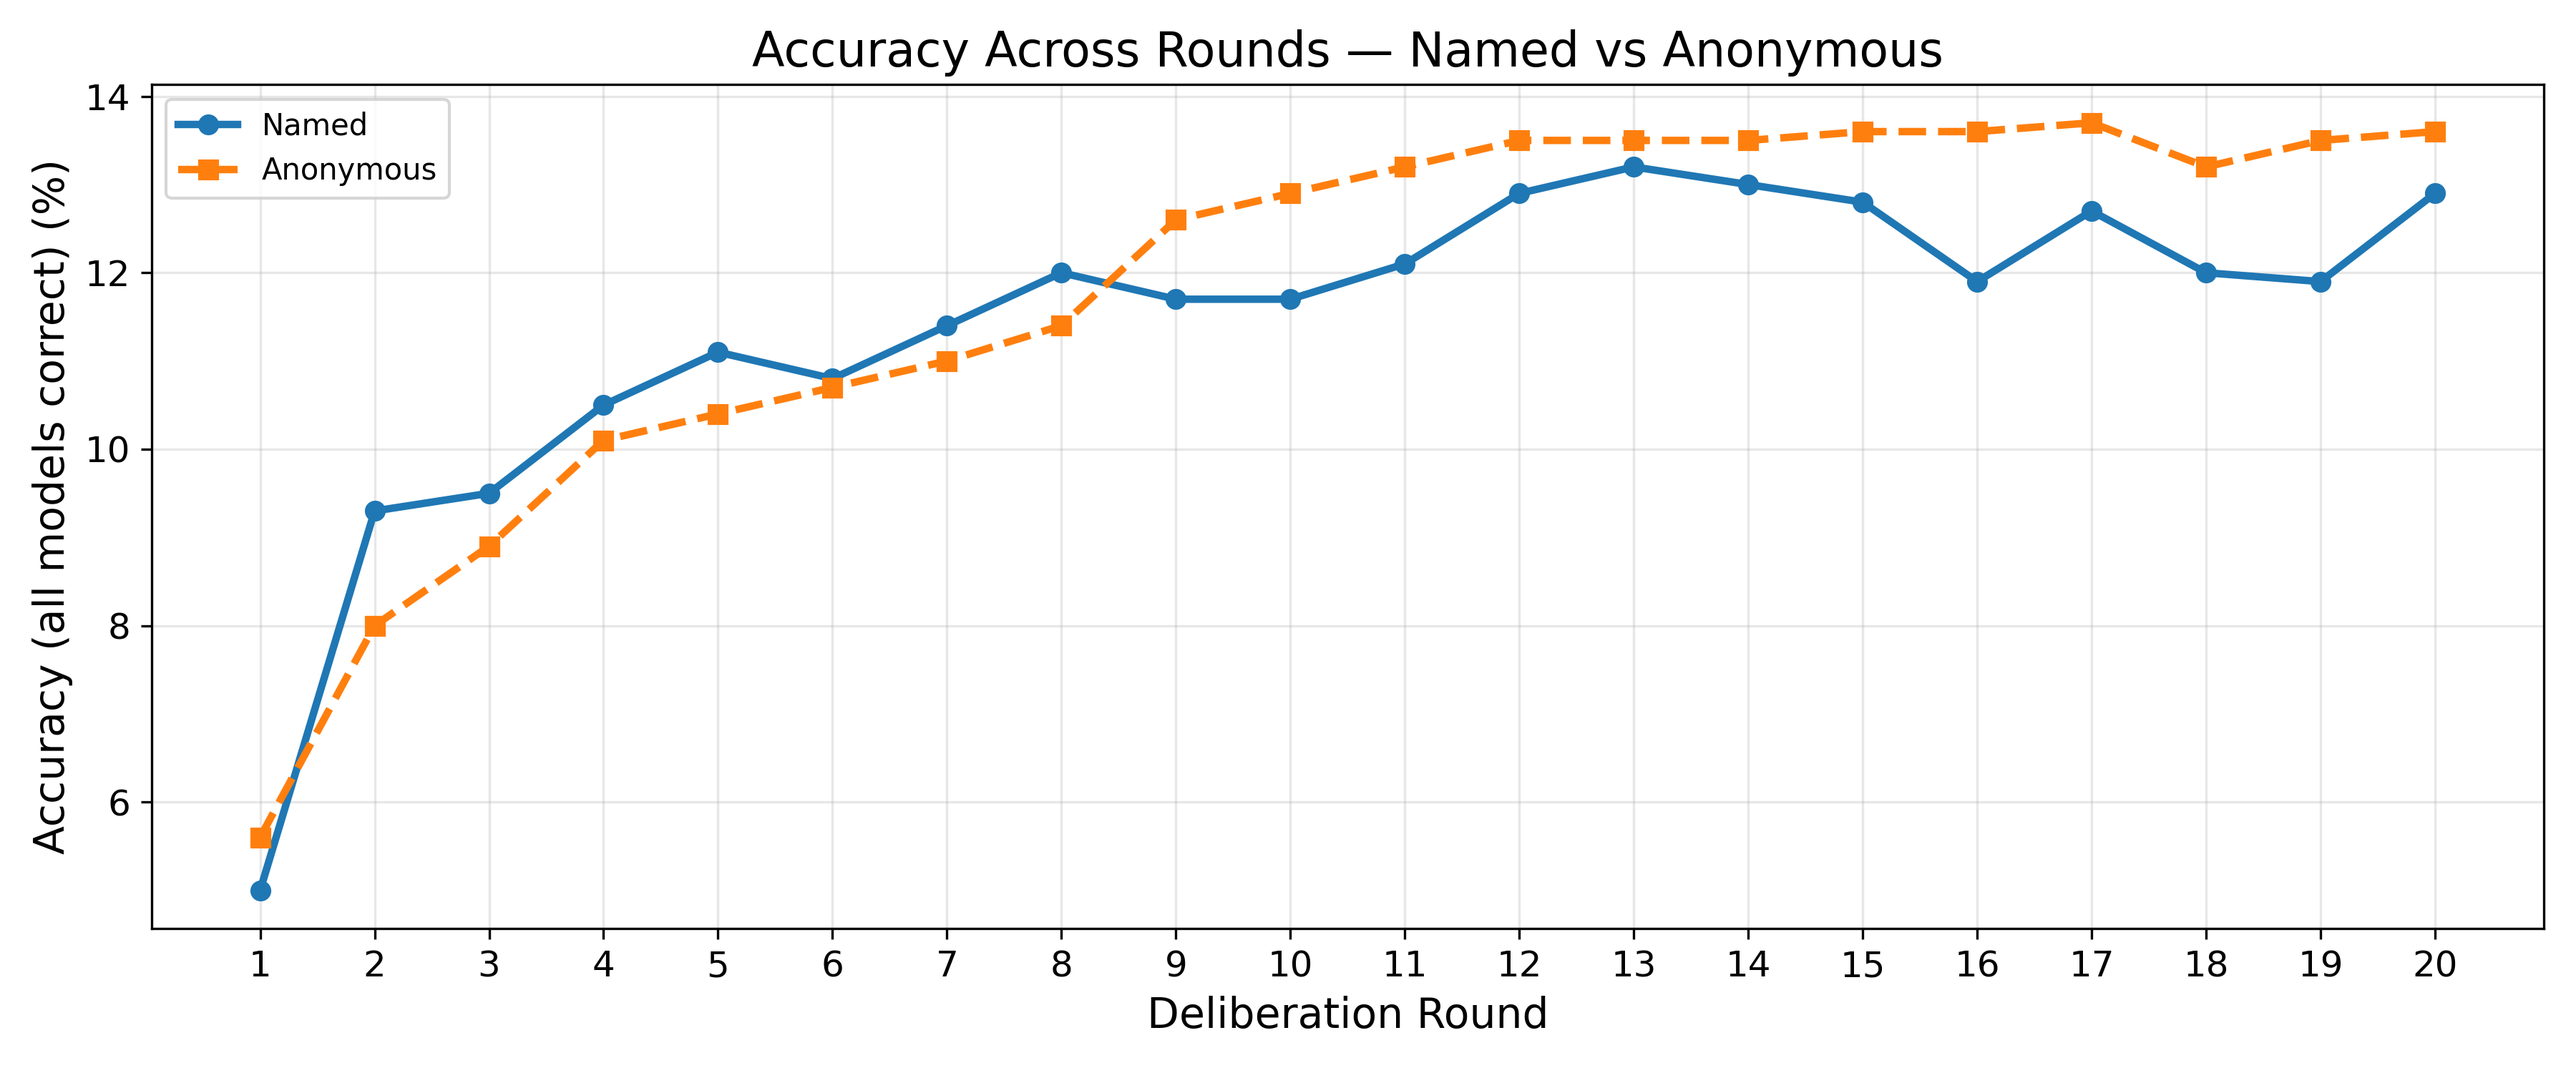
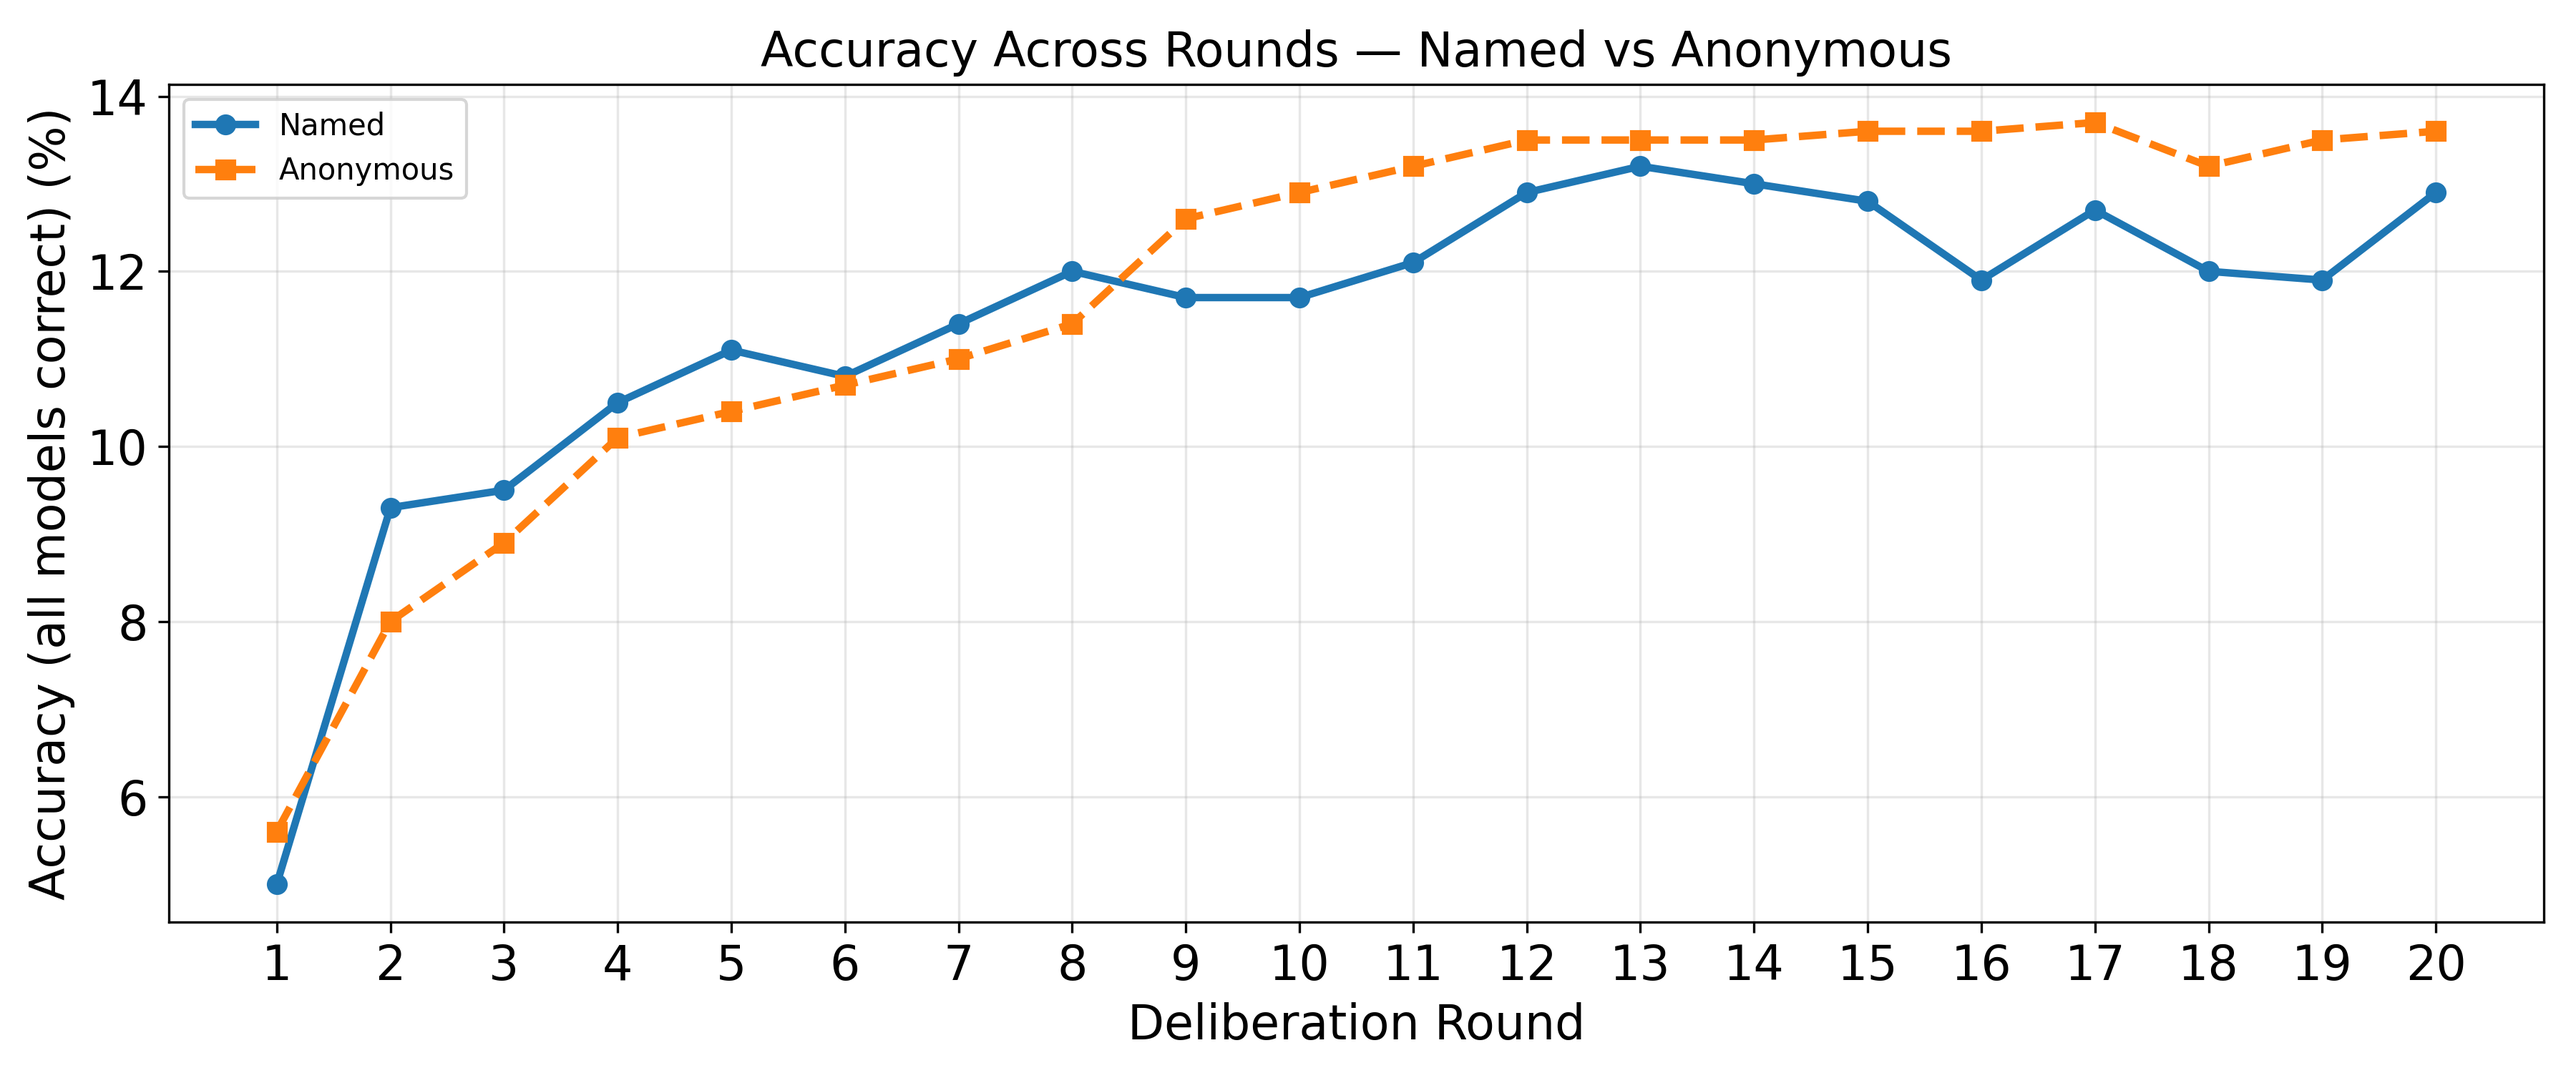
Made stuff bigger

diff --git a/Analysis_files/HLE_accuracy_plot.py b/Analysis_files/HLE_accuracy_plot.py
@@ -44,10 +44,10 @@ def plot_rounds_accuracy(output_dir, out_path):
 
     plt.figure(figsize=(12, 5))
     plt.plot(rounds, values, marker="o", linewidth=2.5, markersize=6)
-    plt.xticks(rounds, fontsize=12)
-    plt.yticks(fontsize=12)
-    plt.xlabel("Deliberation Round", fontsize=14)
-    plt.ylabel("Accuracy (all models correct) (%)", fontsize=14)
+    plt.xticks(rounds, fontsize=16)
+    plt.yticks(fontsize=16)
+    plt.xlabel("Deliberation Round", fontsize=16)
+    plt.ylabel("Accuracy (all models correct) (%)", fontsize=16)
     plt.title("Accuracy Across Rounds", fontsize=16)
     plt.grid(True, alpha=0.3)
     plt.tight_layout()
@@ -73,7 +73,8 @@ def plot_deference_direction(output_dir, out_path):
     plt.figure(figsize=(12, 5))
     plt.bar(x - width / 2, small_to_large, width, label="Small → Large")
     plt.bar(x + width / 2, large_to_small, width, label="Large → Small")
-    plt.xticks(x, labels, rotation=30, ha="right")
+    plt.xticks(x, labels, rotation=30, ha="right", fontsize=16)
+    plt.yticks(fontsize=16)
     plt.ylabel("Percentage of Disagreements (%)")
     plt.title("Direction of Deference")
     plt.legend()
@@ -104,7 +105,8 @@ def plot_deference_accuracy_outcomes(output_dir, out_path):
     plt.bar(x - 0.5 * width, s2l_c2w, width, label="s2l: correct → wrong")
     plt.bar(x + 0.5 * width, l2s_w2c, width, label="l2s: wrong → correct")
     plt.bar(x + 1.5 * width, l2s_c2w, width, label="l2s: correct → wrong")
-    plt.xticks(x, labels, rotation=30, ha="right")
+    plt.xticks(x, labels, rotation=30, ha="right", fontsize=16)
+    plt.yticks(fontsize=16)
     plt.ylabel("Percentage of Deferences in Branch (%)")
     plt.title("Deference Accuracy Outcomes")
     plt.legend()
@@ -165,10 +167,10 @@ def plot_combined_variants(parent_output_dir, out_path):
     plt.figure(figsize=(12, 5))
     plt.plot(rounds_n, values_n, marker="o", linewidth=2.5, markersize=6, label="Named")
     plt.plot(rounds_a, values_a, marker="s", linewidth=2.5, markersize=6, linestyle="--", label="Anonymous")
-    plt.xticks(rounds_n, fontsize=12)
-    plt.yticks(fontsize=12)
-    plt.xlabel("Deliberation Round", fontsize=14)
-    plt.ylabel("Accuracy (all models correct) (%)", fontsize=14)
+    plt.xticks(rounds_n, fontsize=16)
+    plt.yticks(fontsize=16)
+    plt.xlabel("Deliberation Round", fontsize=16)
+    plt.ylabel("Accuracy (all models correct) (%)", fontsize=16)
     plt.title("Accuracy Across Rounds — Named vs Anonymous", fontsize=16)
     plt.legend()
     plt.grid(True, alpha=0.3)
@@ -190,10 +192,10 @@ def plot_combined_rotated_variants(parent_output_dir, out_path):
     plt.figure(figsize=(12, 5))
     plt.plot(rounds_n, values_n, marker="o", linewidth=2.5, markersize=6, label="Named Rotated")
     plt.plot(rounds_a, values_a, marker="s", linewidth=2.5, markersize=6, linestyle="--", label="Anonymous Rotated")
-    plt.xticks(rounds_n, fontsize=12)
-    plt.yticks(fontsize=12)
-    plt.xlabel("Deliberation Round", fontsize=14)
-    plt.ylabel("Accuracy (all models correct) (%)", fontsize=14)
+    plt.xticks(rounds_n, fontsize=16)
+    plt.yticks(fontsize=16)
+    plt.xlabel("Deliberation Round", fontsize=16)
+    plt.ylabel("Accuracy (all models correct) (%)", fontsize=16)
     plt.title("Accuracy Across Rounds — Named Rotated vs Anonymous Rotated", fontsize=16)
     plt.legend()
     plt.grid(True, alpha=0.3)

diff --git a/Analysis_files/all_plots.py b/Analysis_files/all_plots.py
@@ -131,10 +131,10 @@ def plot_combined_variants(parent_output_dir, out_path):
     plt.figure(figsize=(12, 5))
     plt.plot(rounds_n, values_n, marker="o", label="Named")
     plt.plot(rounds_a, values_a, marker="s", linestyle="--", label="Anonymous")
-    plt.xticks(rounds_n, fontsize=12)
-    plt.yticks(fontsize=12)
-    plt.xlabel("Deliberation Round", fontsize=14)
-    plt.ylabel(" Disagreement (%)", fontsize=14)
+    plt.xticks(rounds_n, fontsize=16)
+    plt.yticks(fontsize=16)
+    plt.xlabel("Deliberation Round", fontsize=16)
+    plt.ylabel(" Disagreement (%)", fontsize=16)
     plt.title("Disagreement Across Rounds — Named vs Anonymous", fontsize=16)
     plt.legend()
     plt.grid(True, alpha=0.3)
@@ -156,10 +156,10 @@ def plot_combined_rotated_variants(parent_output_dir, out_path):
     plt.figure(figsize=(12, 5))
     plt.plot(rounds_n, values_n, marker="o", label="Named Rotated")
     plt.plot(rounds_a, values_a, marker="s", linestyle="--", label="Anonymous Rotated")
-    plt.xticks(rounds_n, fontsize=12)
-    plt.yticks(fontsize=12)
-    plt.xlabel("Deliberation Round", fontsize=14)
-    plt.ylabel(" Disagreement (%)", fontsize=14)
+    plt.xticks(rounds_n, fontsize=16)
+    plt.yticks(fontsize=16)
+    plt.xlabel("Deliberation Round", fontsize=16)
+    plt.ylabel(" Disagreement (%)", fontsize=16)
     plt.title("Disagreement Across Rounds — Named Rotated vs Anonymous Rotated", fontsize=16)
     plt.legend()
     plt.grid(True, alpha=0.3)
